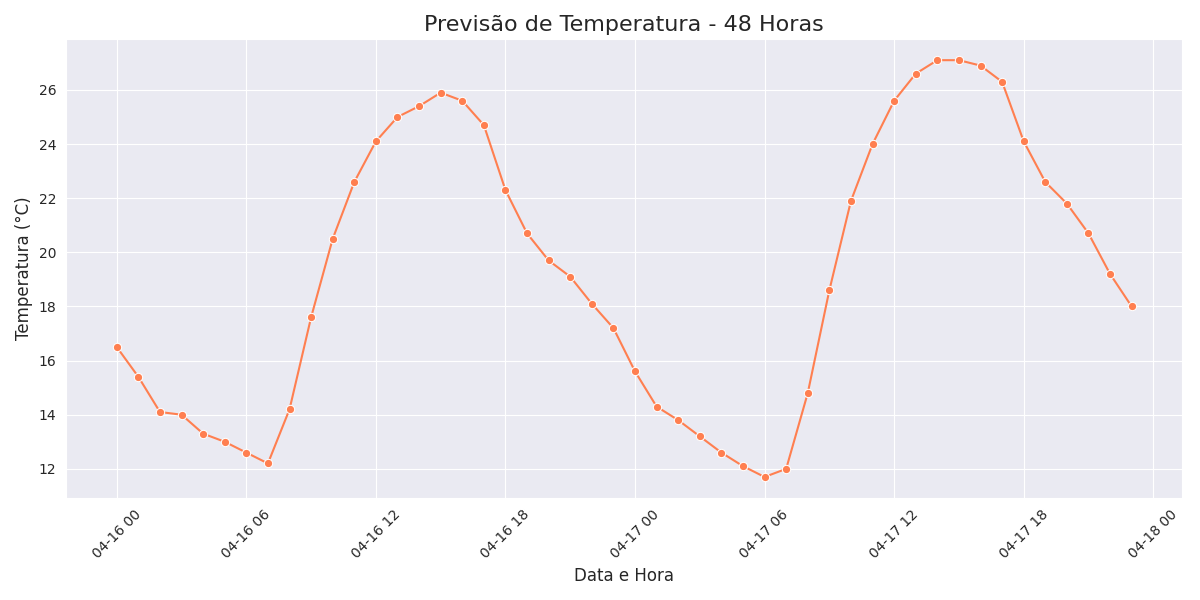
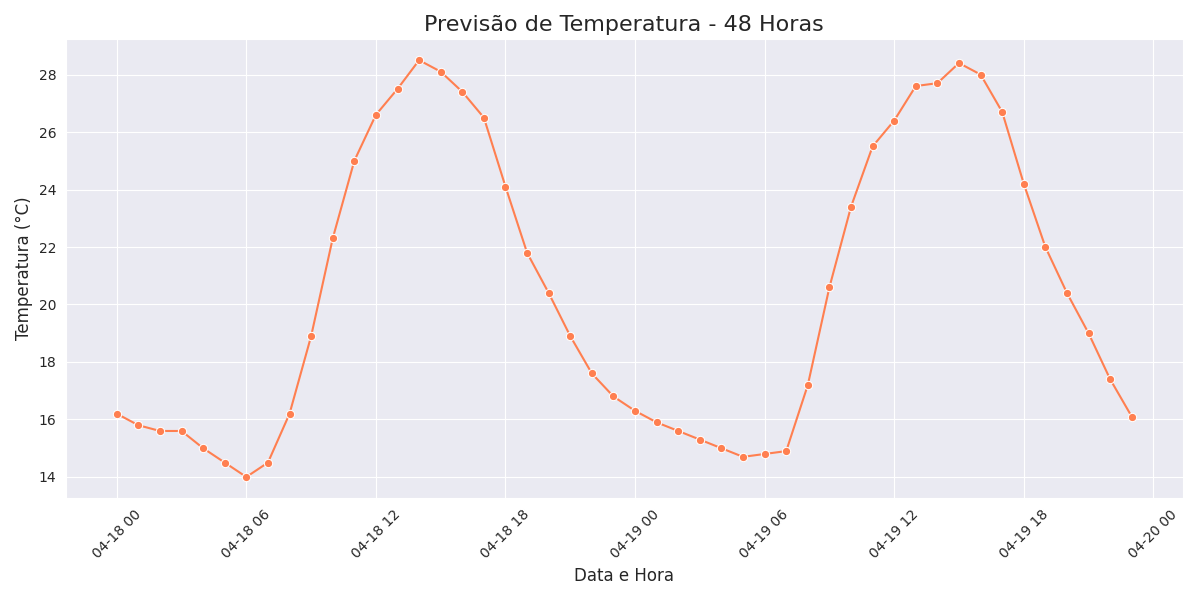
Retirando alguns prints desnecessários

diff --git a/Exercicios_EBAC/Exercicio_um/analise_clima.py b/Exercicios_EBAC/Exercicio_um/analise_clima.py
@@ -77,7 +77,7 @@ def max_min_temperature(df, export_csv=True):
         TEMP_MAX = ("temperatura_C", "max")
     ).reset_index()
     df_day["Amplitude_Térmica"] = (df_day['TEMP_MAX'] - df_day['TEMP_MIN']).round(2)
-    print(df_day.to_string(index=False))     
+         
     
     if export_csv:
         carimbo_tempo = datetime.now().strftime("%Y%m%d_%H%M")
@@ -113,7 +113,7 @@ def main():
     print('\n Resumo dos dados climáticos:')
     print(df_clima.describe())
     print('-' * 40)
-    print(df_extreme)
+    print(df_extreme.describe())
     print('-' * 40)
     plot_climate_data(df_clima)
     print("\nAnálise climática concluída com sucesso.")
